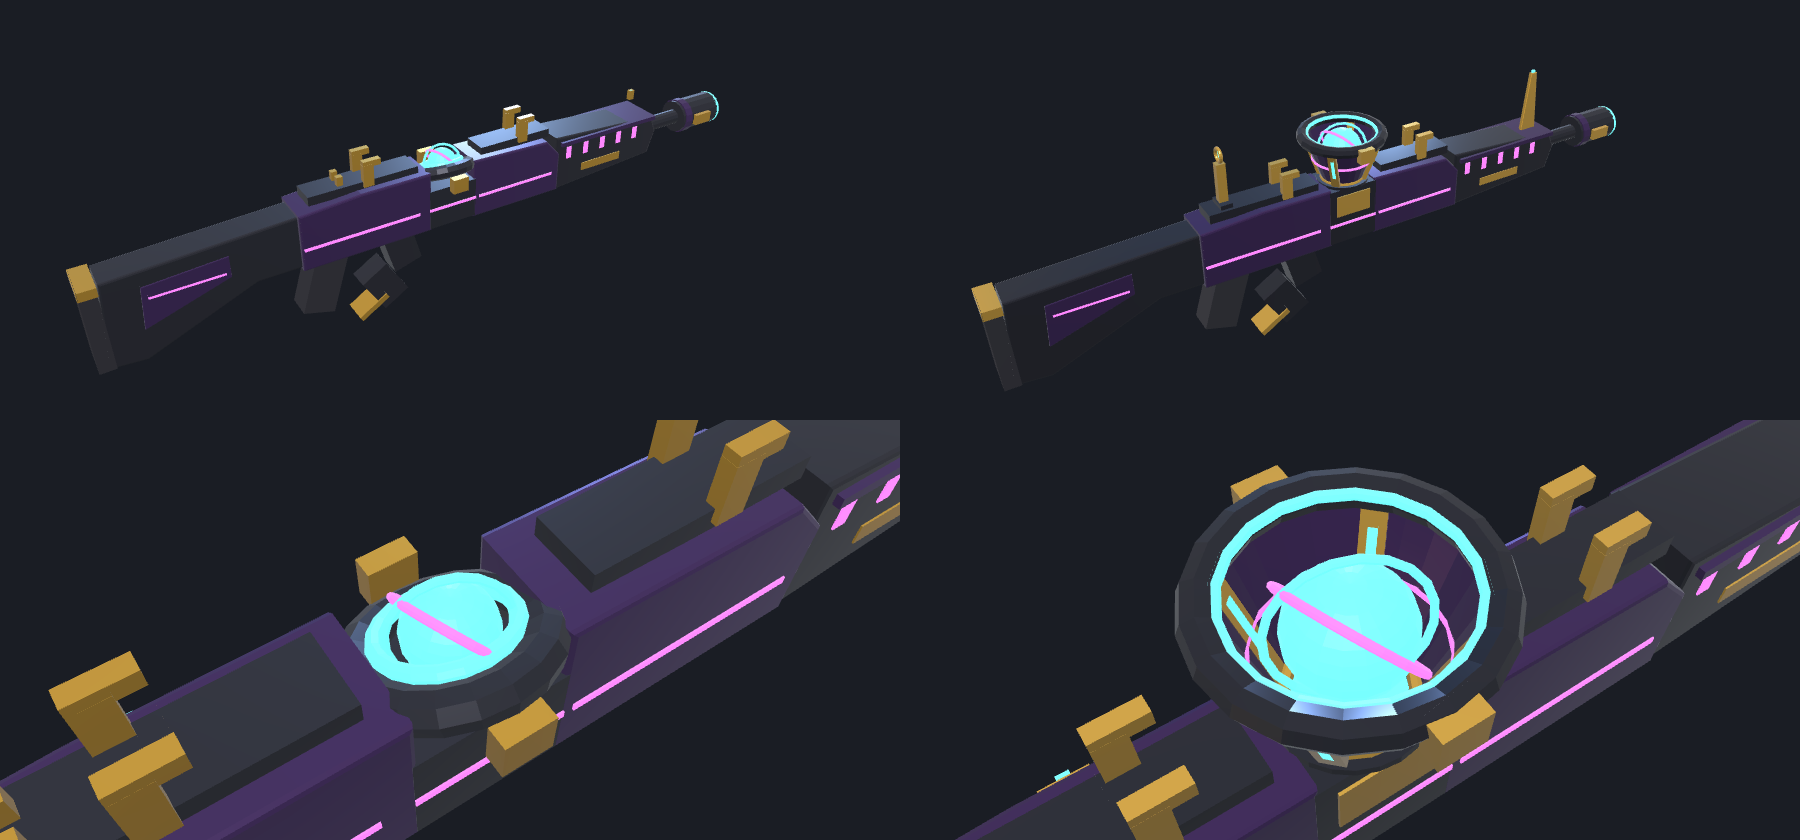
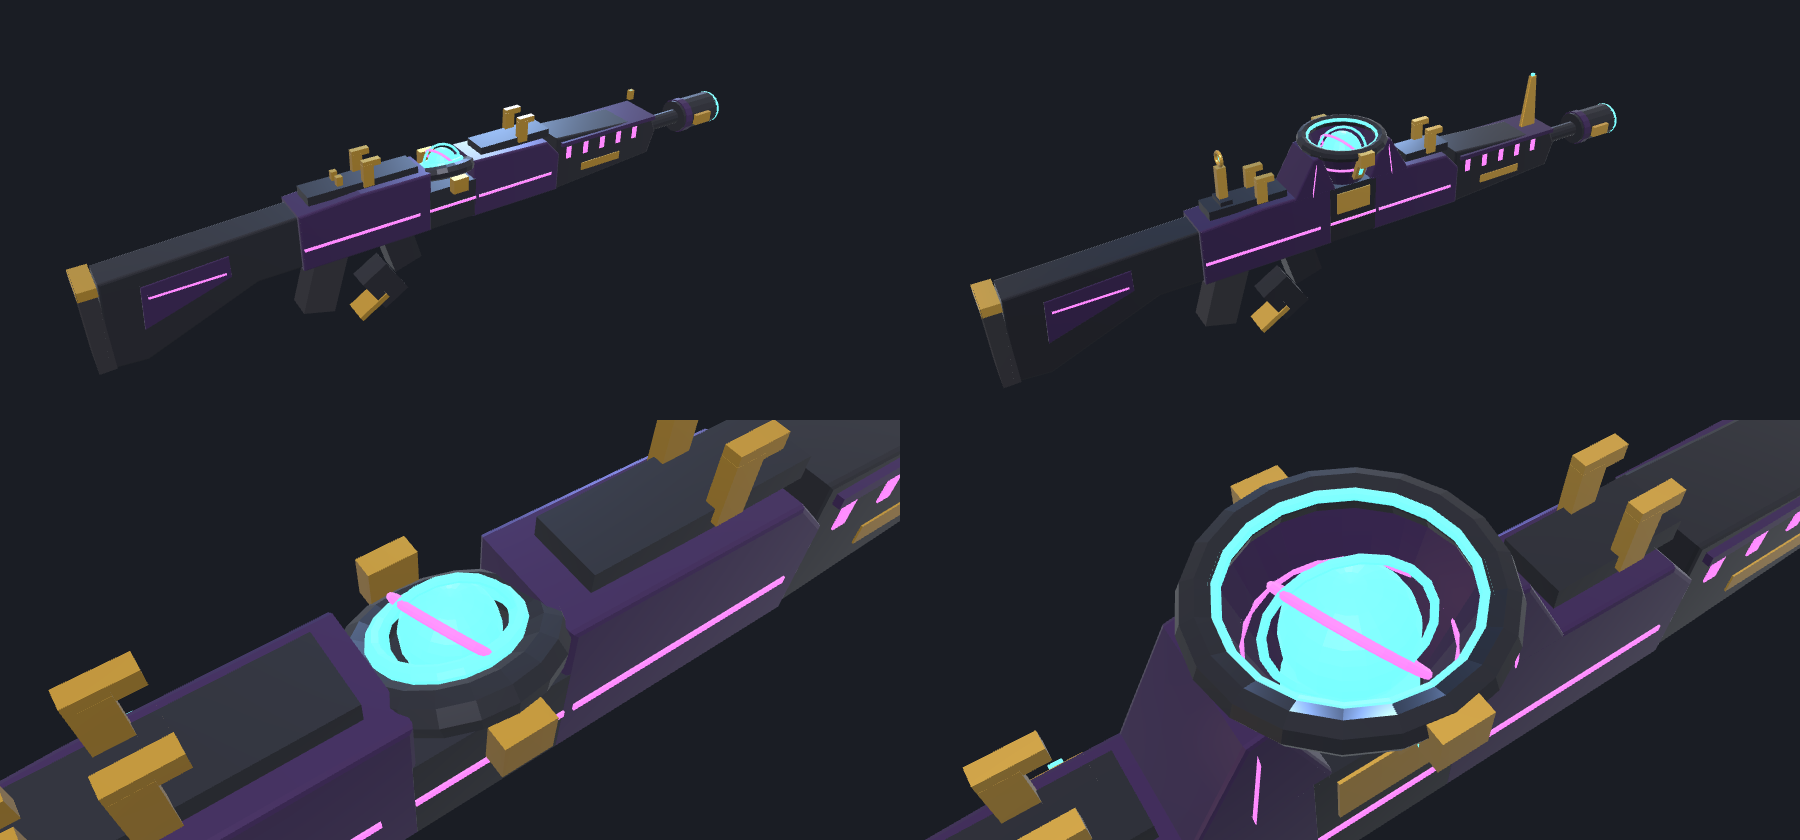
Orbital: build the spire cone into the receiver
The cone's lower half sinks into the gun and the receiver sweeps up in front of and
behind it to meet the ring, with accent lines up the ramps and gold fins on its sides.

Claude-Session: https://claude.ai/code/session_012SZNVztSmqGKqjP711jP12

diff --git a/js/models.js b/js/models.js
@@ -213,21 +213,29 @@ function wrap(k, n, y0, z0, y1, z1, w, d, slot, tilt = 0) {
   }
 }
 
-// Orbital's reactor spire: a hollow cone standing on its point, seated flush on the top of the gun at z (whose
-// surface is at y0) and flaring out to a wide reactor ring, open at the top, lit from the floor, with gold fins up
-// its slope. The orb (part `orb`) sits in the mouth with its top just showing over the rim: the inspect floats it
-// out and the reload pops it and seats a fresh one. `s` scales the whole spire. Returns the height of the top of the ring.
-function orbSpire(k, z, y0, s = 1) {
-  const h = 0.064 * s, rb = 0.026 * s, rt = 0.05 * s, top = y0 + h, slope = Math.atan((rb - rt) / h);
-  k.cyl(rt, h, 'tubeBody', 0, y0 + h / 2, z, 24, 0, 0, 0, rb, true);
-  k.cyl(rb * 0.9, 0.003, 'glow', 0, y0 + 0.003, z, 24, 0);
-  k.cyl(rb + 0.009 * s, 0.004, 'trim', 0, y0 + 0.002, z, 24, 0); // a flat seat, flush on the top of the gun
-  k.tor(rb + 0.001 * s, 0.0035 * s, 'metal', 0, y0 + 0.004, z, PI / 2);
-  k.tor((rb + rt) / 2 + 0.0012, 0.0018 * s, 'accent', 0, y0 + h / 2, z, PI / 2, 0, 0);
-  for (let i = 0; i < 4; i++) {
-    const a = PI / 4 + (i * PI) / 2, r = (rb + rt) / 2 + 0.0025 * s;
-    k.box(0.006 * s, h * 1.04, 0.011 * s, 'metal', Math.cos(a) * r, y0 + h / 2, Math.sin(a) * r + z, 0, -a, slope);
-    k.box(0.0065 * s, h * 0.5, 0.004 * s, 'glow', Math.cos(a) * (r + 0.001), y0 + h * 0.55, Math.sin(a) * (r + 0.001) + z, 0, -a, slope);
+// Orbital's reactor spire, built into the gun at z: a hollow cone that rises out of the receiver (top surface
+// y0, width w) and flares to a wide reactor ring, open at the top and lit inside. Its lower half is sunk into
+// the receiver, and the receiver itself sweeps up in front of and behind it to meet the ring, so the cone is
+// part of the gun's body. Gold fins run up its exposed sides. The orb (part `orb`) sits in the mouth with its
+// top just showing over the rim: the inspect floats it out and the reload pops it and seats a fresh one.
+// `s` scales the whole spire. Returns the height of the top of the ring.
+function orbSpire(k, z, y0, w, s = 1) {
+  const yb = y0 - 0.022 * s, top = y0 + 0.054 * s, rb = 0.02 * s, rt = 0.05 * s;
+  const r = (y) => rb + ((rt - rb) * (y - yb)) / (top - yb), slope = Math.atan((rb - rt) / (top - yb));
+  k.cyl(rt, top - yb, 'tubeBody', 0, (top + yb) / 2, z, 24, 0, 0, 0, rb, true);
+  k.cyl(r(y0) * 0.95, 0.003, 'glow', 0, y0 + 0.004, z, 24, 0);
+  // The receiver sweeping up into the ring, front and back, its inner edge following the cone.
+  const L = 0.085 * s, ys = [y0, y0 + 0.018 * s, y0 + 0.036 * s, top - 0.004 * s];
+  for (const d of [-1, 1]) {
+    const pts = [[z + d * L, y0 - 0.002], [z + d * (rt + 0.006 * s), top - 0.006 * s], ...ys.slice().reverse().map(y => [z + d * r(y) * 0.985, y]), [z + d * r(y0) * 0.985, y0 - 0.002]];
+    k.prof(pts, w, 'body', 0, 0.002);
+    k.prof([[z + d * L * 0.7, y0 + 0.003], [z + d * (rt + 0.004 * s), top - 0.012 * s], [z + d * (rt + 0.004 * s), top - 0.017 * s], [z + d * L * 0.7, y0 - 0.002]], w + 0.002, 'accent', 0, 0.0005);
+  }
+  k.tor((r(y0 + 0.027 * s) + 0.0012), 0.0018 * s, 'accent', 0, y0 + 0.027 * s, z, PI / 2);
+  const fl = (top - y0) * 0.75, fy = top - fl / 2, rm = r(fy) + 0.0045 * s;
+  for (const a of [0, PI]) {
+    k.box(0.006 * s, fl, 0.014 * s, 'metal', Math.cos(a) * rm, fy, z, 0, -a, slope);
+    k.box(0.0065 * s, fl * 0.6, 0.005 * s, 'glow', Math.cos(a) * (rm + 0.001), fy, z, 0, -a, slope);
   }
   k.tor(rt + 0.002 * s, 0.0075 * s, 'trim', 0, top, z, PI / 2);
   k.tor(rt - 0.004 * s, 0.0026 * s, 'glow', 0, top + 0.003 * s, z, PI / 2);
@@ -731,13 +739,13 @@ const DESIGNS = {
     k.box(0.06, 0.004, 0.07, 'accent', 0, 0.002, -0.15);
     for (const x of [-0.0295, 0.0295]) k.box(0.002, 0.03, 0.05, 'metal', x, 0.03, -0.15);
     // Top spine either side of the spire, gold clamps on it.
-    k.box(0.034, 0.012, 0.15, 'trim', 0, 0.06, -0.03);
-    k.box(0.034, 0.012, 0.11, 'trim', 0, 0.06, -0.255);
-    for (const z of [-0.06, -0.265]) for (const x of [-0.016, 0.016]) {
+    k.box(0.034, 0.012, 0.105, 'trim', 0, 0.06, -0.0075);
+    k.box(0.034, 0.012, 0.07, 'trim', 0, 0.06, -0.275);
+    for (const z of [-0.025, -0.28]) for (const x of [-0.016, 0.016]) {
       k.box(0.008, 0.03, 0.014, 'metal', x, 0.074, z);
       k.box(0.008, 0.008, 0.024, 'metal', x, 0.09, z - 0.005);
     }
-    const top = orbSpire(k, -0.15, 0.054);
+    const top = orbSpire(k, -0.15, 0.054, 0.058);
     // Handguard: chunky shroud with neon vents and a gold name plate on each side.
     k.prof([[-0.32, -0.026], [-0.32, 0.05], [-0.49, 0.04], [-0.5, 0.018], [-0.49, -0.014]], 0.054, 'trim');
     k.teeth(5, -0.34, -0.46, 0.056, 0.018, 0.008, 'accent', 0, 0.026);
@@ -775,7 +783,7 @@ const DESIGNS = {
     k.box(0.052, 0.003, 0.06, 'glow', 0, 0.004, 0.03);
     k.box(0.03, 0.01, 0.07, 'trim', 0, 0.058, 0.035);
     k.box(0.03, 0.01, 0.06, 'trim', 0, 0.057, -0.17);
-    const top = orbSpire(k, -0.08, 0.0525, 0.82);
+    const top = orbSpire(k, -0.08, 0.0525, 0.05, 0.82);
     // Shroud: lit face ring, gold vents down each side.
     k.cyl(0.021, 0.07, 'trim', 0, 0.022, -0.255, 16);
     k.cyl(0.023, 0.01, 'body', 0, 0.022, -0.235, 16);
@@ -808,7 +816,7 @@ const DESIGNS = {
     k.box(0.058, 0.003, 0.26, 'glow', 0, -0.004, -0.17);
     k.box(0.036, 0.01, 0.07, 'trim', 0, 0.062, -0.07);
     k.box(0.036, 0.01, 0.08, 'trim', 0, 0.058, -0.28);
-    const top = orbSpire(k, -0.17, 0.0545);
+    const top = orbSpire(k, -0.17, 0.0545, 0.056);
     // Suppressor: gold bands, neon rings between them, lit face.
     k.cyl(0.022, 0.22, 'trim', 0, 0.018, -0.46, 18);
     for (const z of [-0.37, -0.45, -0.53]) k.cyl(0.024, 0.012, 'metal', 0, 0.018, z, 18);
@@ -842,7 +850,7 @@ const DESIGNS = {
     k.box(0.04, 0.012, 0.08, 'trim', 0, 0.06, 0.0);
     k.box(0.04, 0.012, 0.08, 'trim', 0, 0.06, -0.265);
     for (const x of [-0.031, 0.031]) k.box(0.002, 0.034, 0.06, 'metal', x, 0.026, -0.14);
-    const top = orbSpire(k, -0.14, 0.054, 1.08);
+    const top = orbSpire(k, -0.14, 0.054, 0.06, 1.08);
     // Handguard: gunmetal with neon vent teeth; barrel and the squared muzzle brake.
     k.prof([[-0.32, -0.022], [-0.32, 0.048], [-0.46, 0.042], [-0.46, -0.014]], 0.054, 'trim');
     k.teeth(5, -0.34, -0.44, 0.056, 0.012, 0.01, 'accent', 0, 0.006);
